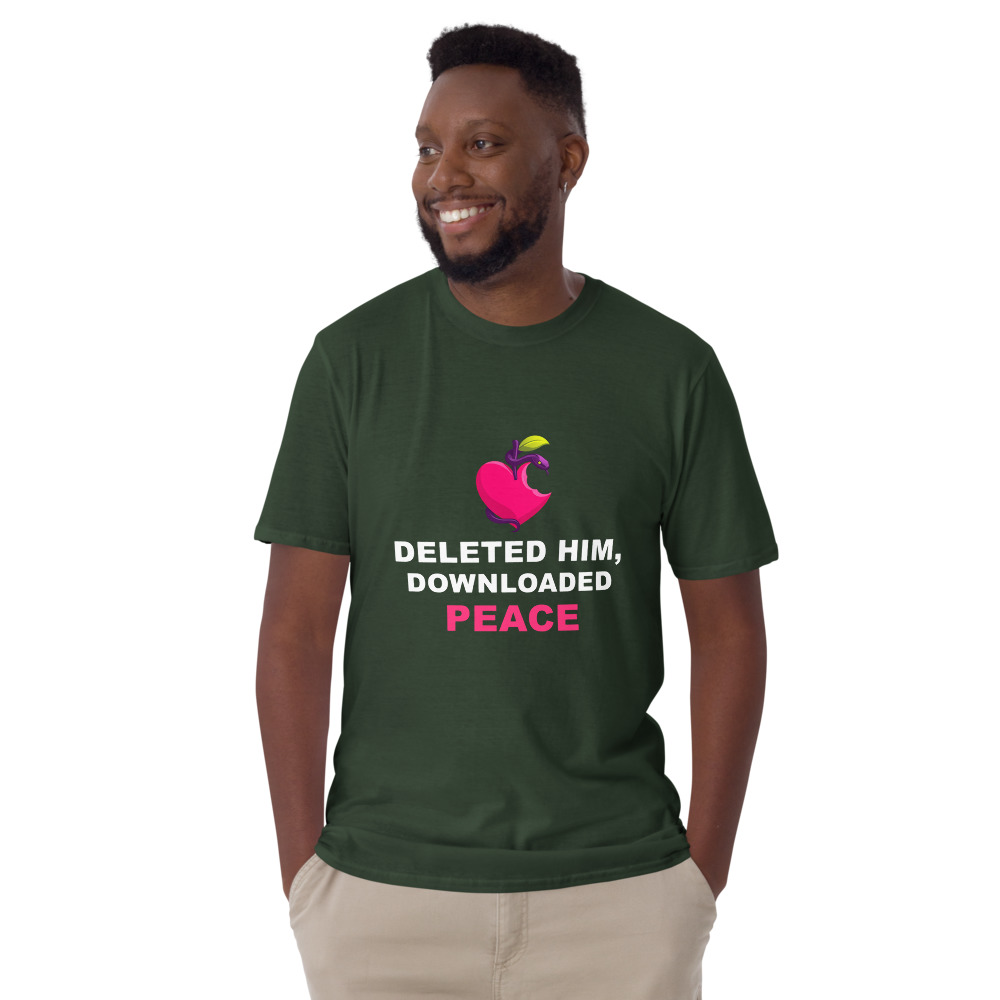
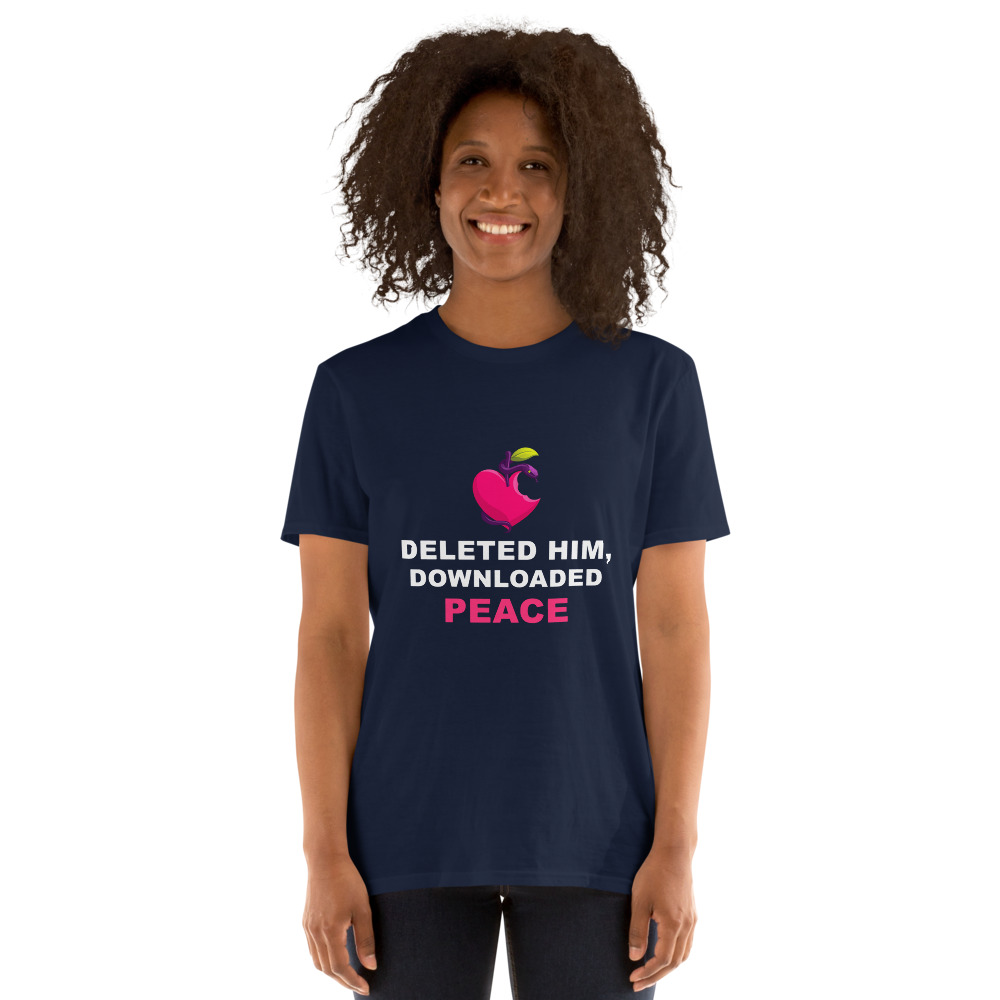
Swap model genders on two mismatched tees
"Deleted Him, Downloaded Peace" was on a male model, which reads wrong
for a female-voiced slogan; the neutral "Single / Taken / Complicated"
was on a woman. Swapped: p77 now uses a women's style, p70 a men's.

Both also moved off Forest Green (navy and maroon) -- six of the ten
mockups regenerated earlier landed on the same green.

diff --git a/lib/products.js b/lib/products.js
@@ -2389,7 +2389,7 @@
   // therefore the same model) never lands beside or directly above another.
   const MODEL_STYLE = {
     p2: "Women's Lifestyle",
-    p77: "Men's 4",
+    p77: "Women's 2",
     p9: "Men's",
     p12: "Women's Lifestyle",
     p13: "Men's Lifestyle",
@@ -2419,7 +2419,7 @@
     p67: "Women's 2",
     p68: "Men's",
     p69: "Women's Lifestyle",
-    p70: "Women's Lifestyle",
+    p70: "Men's 3",
     p71: "Men's",
     p72: "Women's Lifestyle",
     p73: "Men's 4",
